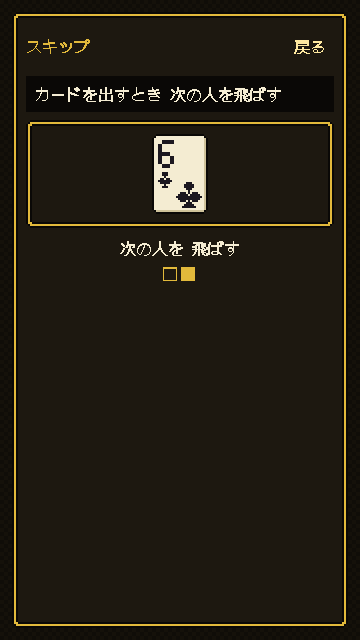
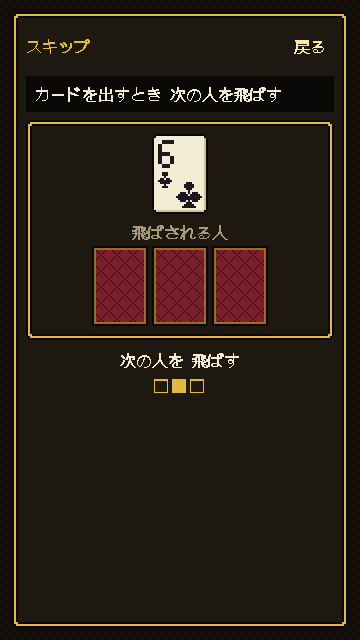
client: K スキップと特権のスキップの見本を3コマにして、コマごとに絵が変わるようにする。docs: 実装のときに直した見本の記録

Changed region(s): [[0.2444, 0.3438, 0.7639, 0.625], [0.8861, 0.3438, 0.9472, 0.5312], [0.0611, 0.3438, 0.0917, 0.5312]]

diff --git a/packages/client/src/rule-demos.ts b/packages/client/src/rule-demos.ts
@@ -141,9 +141,11 @@ export const RULE_DEMOS: Record<RuleId, RuleDemoData> = {
     { field: ['club-9'], badges: [{ kind: 'orderReverse' }], note: '9 を出すと 逆回りに' },
     { field: [], note: '場が流れると 元に戻る' },
   ],
+  // 3コマ目は、飛ばされた人のその次の人が、場の K より強い A を出した場面
   skip_on_k: [
-    { field: ['club-13'], note: 'K を1枚 出すと' },
-    { field: ['club-13'], note: '次の人を 1人飛ばす' },
+    { field: ['club-13'], rows: [{ label: '次の人', cards: [B, B, B] }], note: 'K を1枚 出すと' },
+    { field: ['club-13'], rows: [{ label: '飛ばされる人', cards: [B, B, B] }], note: '次の人を 1人飛ばす' },
+    { field: ['diamond-14'], rows: [{ label: 'その次の人', cards: [B, B] }], note: 'その次の人が 出す' },
   ],
 
   // ---------- 特殊 ----------
@@ -271,8 +273,10 @@ export const ABILITY_DEMOS: Record<AbilityId, RuleDemoData> = {
     { field: [], note: '自分の番に 使うと' },
     { field: [], badges: [{ kind: 'revolution' }], note: '強さが 逆になる' },
   ],
+  // 3コマ目は、飛ばされた人のその次の人が、場の 6 より強い 9 を出した場面
   skip: [
-    { field: ['club-6'], note: 'カードを 出すときに付ける' },
-    { field: ['club-6'], note: '次の人を 飛ばす' },
+    { field: ['club-6'], rows: [{ label: '次の人', cards: [B, B, B] }], note: 'カードを 出すときに付ける' },
+    { field: ['club-6'], rows: [{ label: '飛ばされる人', cards: [B, B, B] }], note: '次の人を 飛ばす' },
+    { field: ['heart-9'], rows: [{ label: 'その次の人', cards: [B, B] }], note: 'その次の人が 出す' },
   ],
 };

diff --git a/packages/client/src/lib/help.test.ts b/packages/client/src/lib/help.test.ts
@@ -215,6 +215,8 @@ describe('見本の読み上げ（design-5 §6.8）', () => {
     expect(demoSpeech(RULE_DEMOS.give_on_7[1]!)).toBe('場に クラブの7。あなた：ハートのJ。次の人：裏向き 2枚、スペードの4（印つき）。手札を1枚 次の人に渡せる');
     expect(demoSpeech(ABILITY_DEMOS.peek[1]!)).toBe('場は空。相手：裏向き 1枚、スペードの2、ハートの9、クラブの4。ランダムな3枚を 見る');
     expect(demoSpeech(RULE_DEMOS.forbidden_finish[1]!)).toBe('場に ジョーカー。あなた：なし。これで上がると 反則');
+    expect(demoSpeech(RULE_DEMOS.skip_on_k[1]!)).toBe('場に クラブのK。飛ばされる人：裏向き 3枚。次の人を 1人飛ばす');
+    expect(demoSpeech(ABILITY_DEMOS.skip[2]!)).toBe('場に ハートの9。その次の人：裏向き 2枚。その次の人が 出す');
   });
 
   it('枠のボタンの名前：何コマ目か・中身・押すと次へ', () => {

diff --git a/docs/client-assumptions.md b/docs/client-assumptions.md
@@ -452,11 +452,12 @@
   - 7渡し：「次の人」の行に裏向きの手札を出す（1コマ目 裏 裏、2コマ目 裏 裏 ♠4（強調））。
   - 10捨て：2コマ目に「捨て札：♠4」の行を足した。1コマ目も行2つぶんの場所を空けるので、枠の高さは同じ。
   - 階段：2コマ目を ♠7♠8♠9 にした（別のマークでも出せることが分かるように）。
+  - K スキップ・特権のスキップ：表のままでは2コマとも同じカード1枚で、説明の文しか変わらなかったので、3コマにして絵が変わるようにした。行「次の人：裏 裏 裏」→「飛ばされる人：裏 裏 裏」→ 3コマ目は場が変わり「その次の人：裏 裏」（説明「その次の人が 出す」）。3コマ目の場は、飛ばされた人のその次の人が出した、場より強いカード（K スキップは ♣K のあと ♦A、特権のスキップは ♣6 のあと ♥9）。
 - ほかは表のまま。コマの説明は幅 360px で切れず、行のカードは4枚以内に入り、札が2つ並ぶコマはなかった。
 
 **確かめたこと**
 - 関数のテスト（`help.test.ts` 52件、第1弾は21件）：30個そろっていること（ID が `ALL_RULE_IDS`・`ALL_ABILITY_IDS` と一致）、30個すべてのデータの検査、行のカードが0枚の見本（禁止上がりの2コマ目）、宣言・独裁の札（データと `demoBadgeProps`）、札と行の両方がある見本の枠の大きさ。
-- 画像：30個すべてのすべてのコマ（78枚、360×640）を `docs/mock/client/help-all/` に `ルールID-fN.png`（特権は `ability-ID-fN.png`）で撮り、すべて開いて確かめた。撮る一覧（ID とコマ数）はデータから作り、枚数がコマの総数 78 と一致することを確かめた。いちばん背が高い見本（銀河鉄道・闇市の行2つ、大革命・Q ボンバーの札＋行1つ）も 360×640 でスクロールなしで入る。札のあるコマとないコマで枠の高さは変わらない（78枚の画像と、`help-sheet` を 1260px 幅で撮った画像の一部（定番・応用・特殊の後半・特権）で確かめた。`help-sheet` の枠の中のスクロールは操作して確かめていない）。
+- 画像：30個すべてのすべてのコマ（78枚、360×640）を `docs/mock/client/help-all/` に `ルールID-fN.png`（特権は `ability-ID-fN.png`）で撮り、すべて開いて確かめた（その後 K スキップ・特権のスキップを3コマにしたので、いまは80枚。足した2つの全6コマも撮り直して開いた）。撮る一覧（ID とコマ数）はデータから作り、枚数がコマの総数 78 と一致することを確かめた。いちばん背が高い見本（銀河鉄道・闇市の行2つ、大革命・Q ボンバーの札＋行1つ）も 360×640 でスクロールなしで入る。札のあるコマとないコマで枠の高さは変わらない（78枚の画像と、`help-sheet` を 1260px 幅で撮った画像の一部（定番・応用・特殊の後半・特権）で確かめた。`help-sheet` の枠の中のスクロールは操作して確かめていない）。
 - **確かめていないこと**：実際の端末での見え方、自動再生の動き（第1弾と同じ部品なので撮り直していない）。
 
 ### L6. 第1弾の実装レビューへの対応（design-5 §6.8、2026-11-19）

diff --git a/docs/design-5.md b/docs/design-5.md
@@ -245,3 +245,7 @@ Codex の実装レビュー（中3・低1）を受けて決めた。§6.4 の一
 - **見本の読み上げ**：いまのコマの中身（場のカード、状態の札、各行の見出しとカード、裏向きの枚数、コマの説明）を文にして、読み上げに渡す（関数にしてテストする）。画面には出さない。
 - **時刻の取り方**：状態を更新する関数の中で `Date.now()` を呼ばない。タイマーや押したときの処理で先に時刻を取り、その値を渡す。
 - テストに足す：読み上げの文、メニューと説明の状態の切り替え（関数に分けられる範囲で）。
+
+### 6.9 実装のときに直した見本（2026-11-19）
+
+- §4.3・§6.3 の表のうち、激縛り・階段・7渡し・10捨て・銀河鉄道・K スキップ・特権のスキップは、実装のときに直した。いまの中身は `packages/client/src/rule-demos.ts` が正で、直した理由は `client-assumptions.md` の L5 にある。
